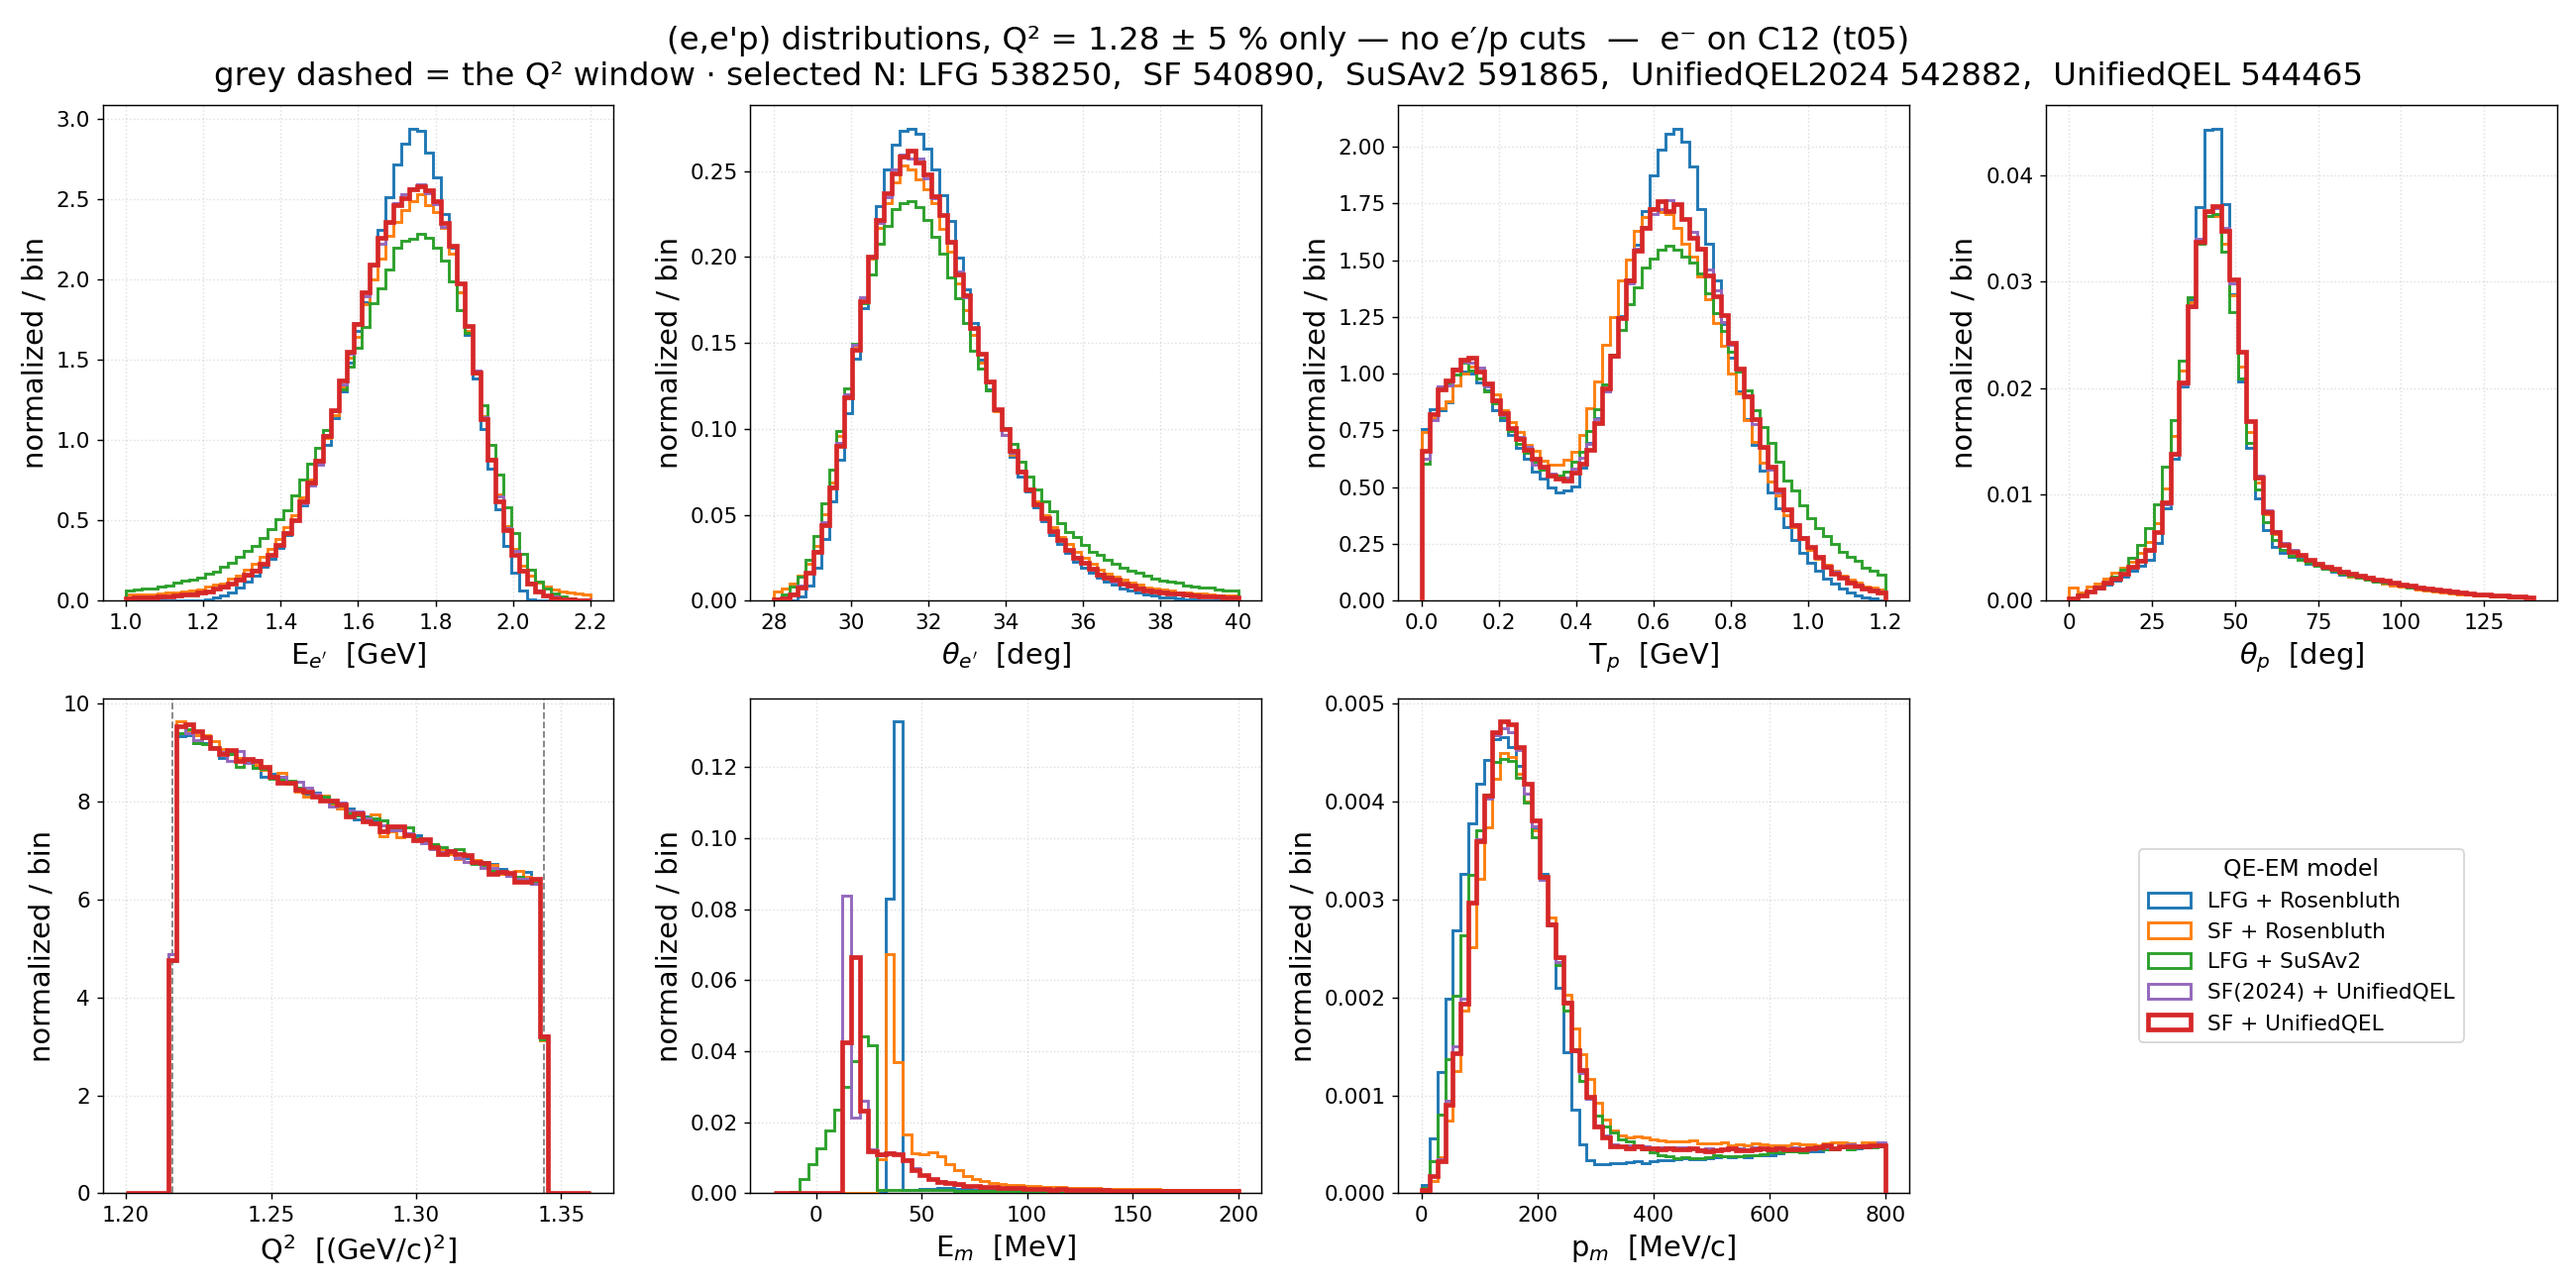
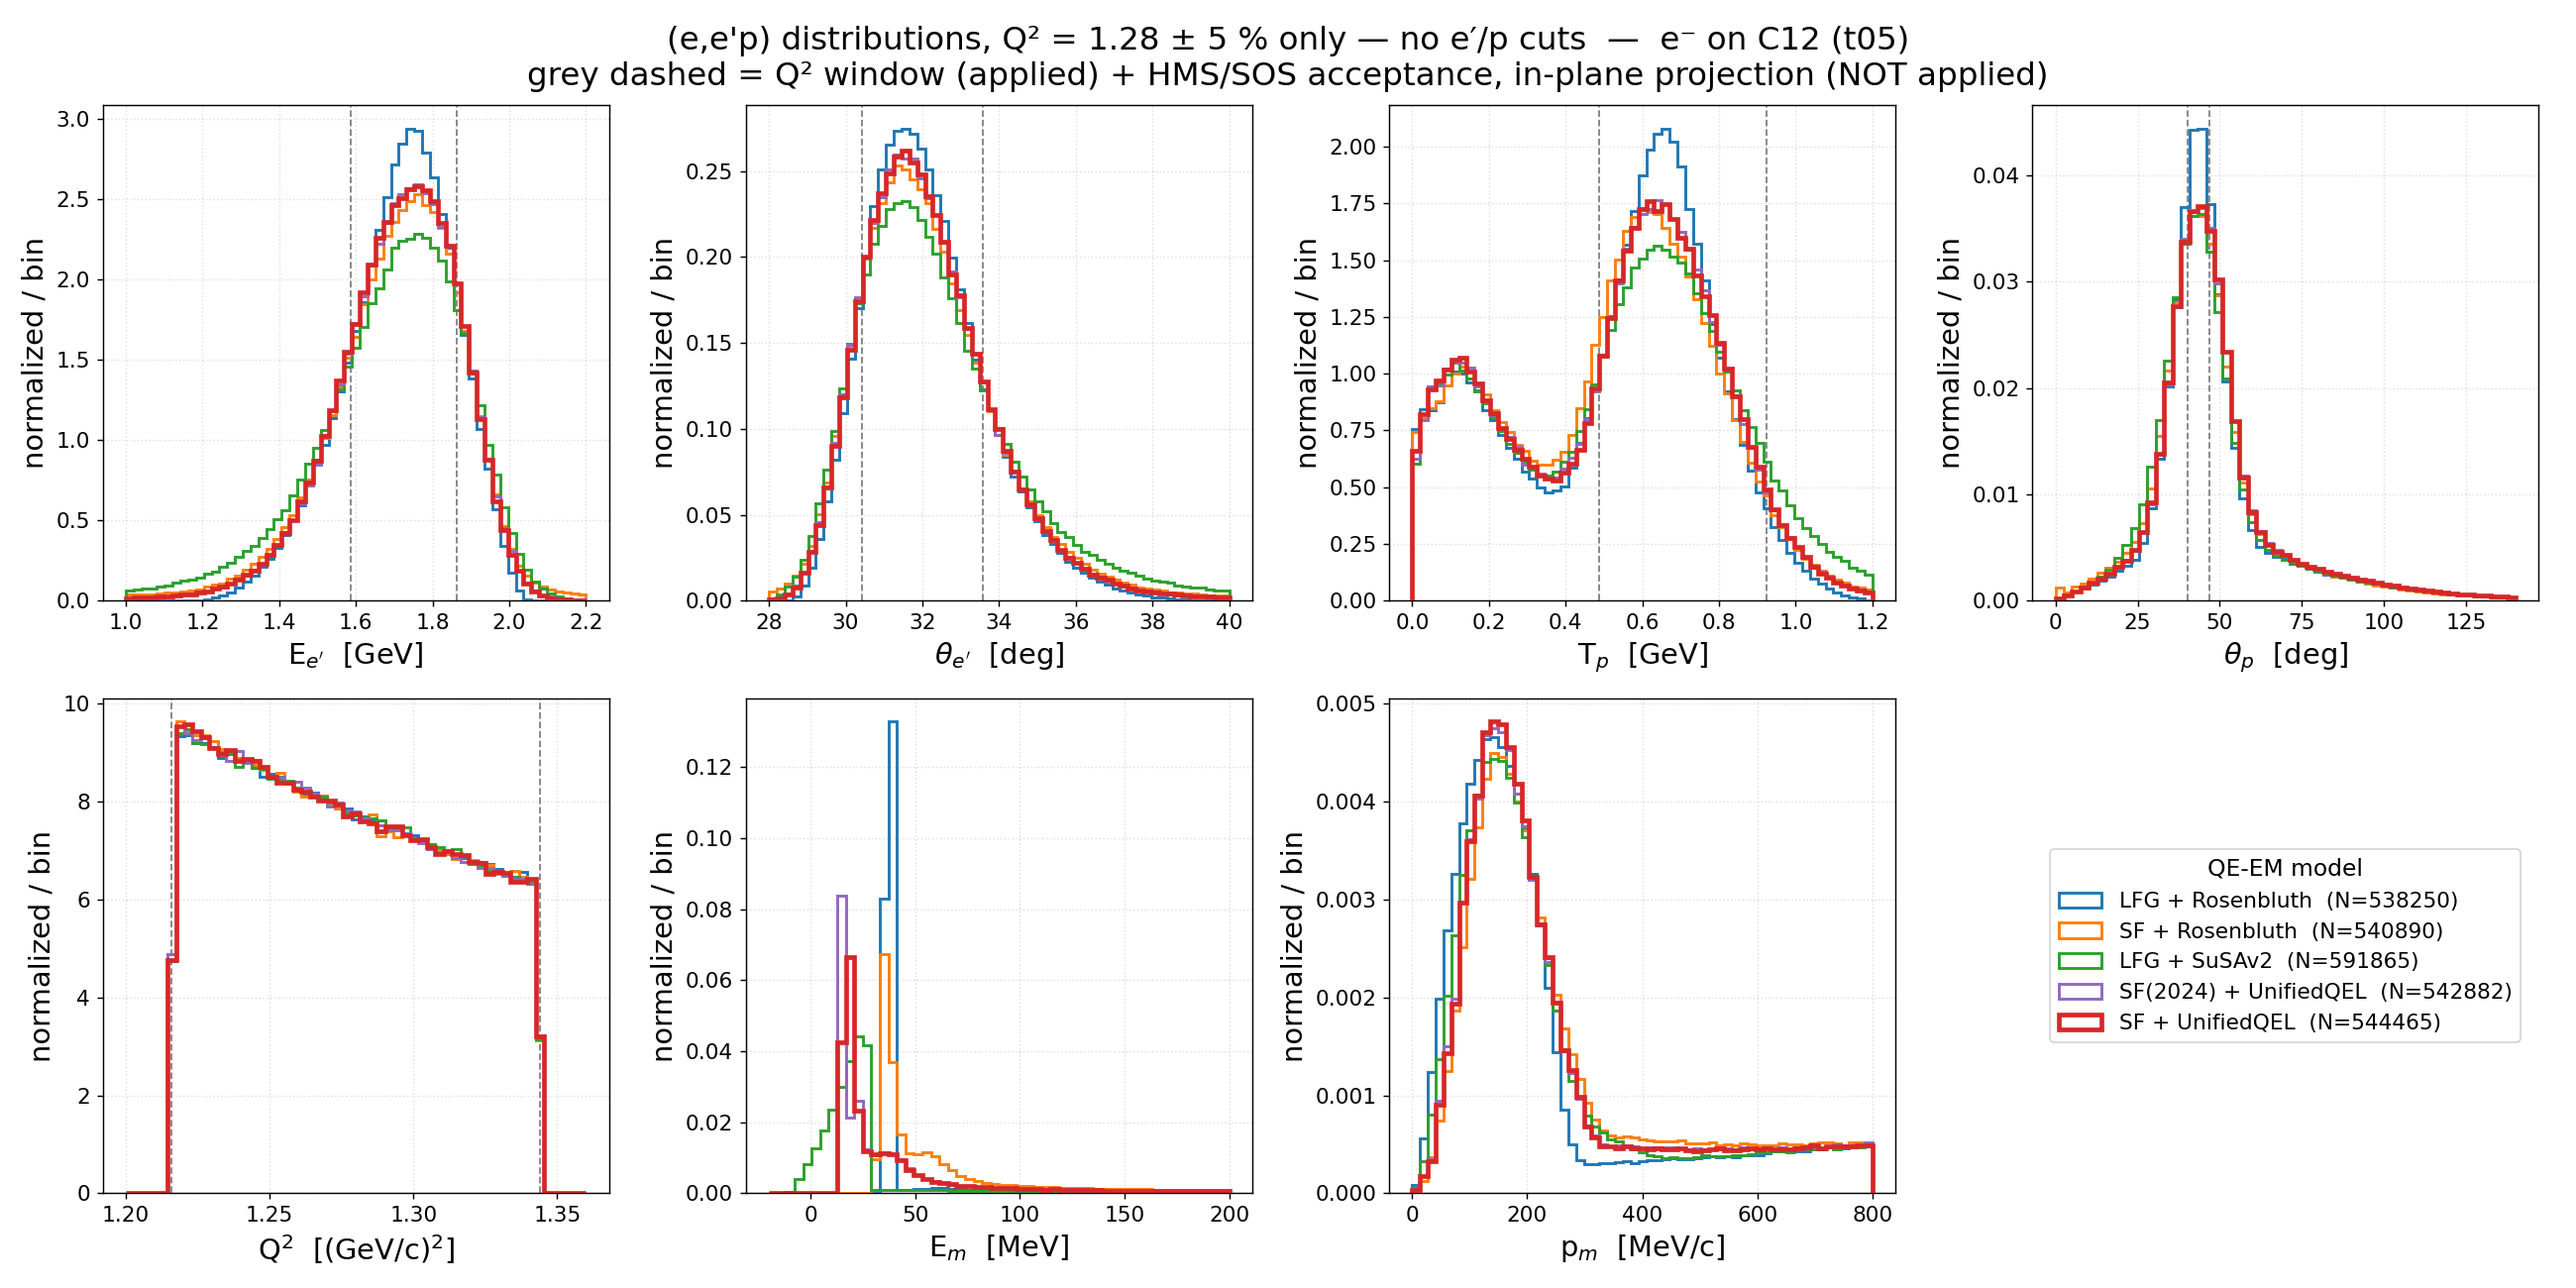
results: mark HMS/SOS acceptance on the Q2-slice figure + S^D extraction plan
dists_q2window: grey dashed acceptance windows (in-plane projections,
derived from acceptance.py constants, NOT applied) on the El, theta_e,
Tp and theta_p panels -- El [1.587,1.863] GeV, theta_e 32.0+-1.58 deg,
Tp [0.487,0.924] GeV, theta_p 43.5+-3.26 deg -- alongside the applied
Q2 window; per-model N moved into the legend so the suptitle fits.

Also adds .claude/plans/genie-experimental-spectral-function.md: the
plan for extracting the experimental (distorted) spectral function
S^D(Em,pm) from GENIE events via Dutta's PWIA estimator (per-event
1/(Ep*pp*sigma_cc1) weights, sigma_tot/N_gen normalization, flat-MC
phase-space H division, FSI-off closure test).

diff --git a/results/prd-analyzer/plot_dists_q2.py b/results/prd-analyzer/plot_dists_q2.py
@@ -18,10 +18,26 @@ import numpy as np
 from plot_style import (apply_style, new_panels, style_axis,
                         FS_LABEL, FS_LEGEND, FS_LEGEND_TITLE, FS_SUPTITLE)
 import samples as S
+import acceptance as acc
+from selection import M_P
 
 Q2_CENTER, Q2_FRAC = 1.28, 0.05
 Q2_LO, Q2_HI = Q2_CENTER * (1 - Q2_FRAC), Q2_CENTER * (1 + Q2_FRAC)
 OUT = "results/prd-analyzer/dists_q2window.png"
+
+# HMS/SOS acceptance windows (in-plane projections), derived from acceptance.py:
+# El: HMS momentum bite (electron ~ massless, E ~ p); theta: arm angle +- atan(yptar);
+# Tp: SOS momentum bite converted to kinetic energy.
+_p_lo, _p_hi = acc.P0_P * (1 - acc.DELTA_P_HW / 100), acc.P0_P * (1 + acc.DELTA_P_HW / 100)
+ACCEPT = {
+    "El":      (acc.P0_E * (1 - acc.DELTA_E_HW / 100), acc.P0_E * (1 + acc.DELTA_E_HW / 100)),
+    "theta_e": tuple(np.degrees(acc.TH0_E) + s * np.degrees(np.arctan(acc.YPTAR_E_HW))
+                     for s in (-1, +1)),
+    "Tp":      tuple(np.hypot(p, M_P) - M_P for p in (_p_lo, _p_hi)),
+    "theta_p": tuple(np.degrees(acc.TH0_P) + s * np.degrees(np.arctan(acc.YPTAR_P_HW))
+                     for s in (-1, +1)),
+    "Q2":      (Q2_LO, Q2_HI),          # the only cut actually applied here
+}
 
 # panel -> (cache key, axis label, (lo, hi), nbins)  — ranges cover ~p1-p99
 PANELS = [
@@ -44,9 +60,10 @@ for ax, (key, lab, rng, nb) in zip(axes, PANELS):
         x = cache[m][key]
         x = x[np.isfinite(x)]
         ax.hist(x, bins=bins, histtype="step", linewidth=S.lw(m), color=S.color(m),
-                density=True, label=S.label(m), zorder=S.zorder(m))
-    if key == "Q2":                                  # the only applied cut
-        for v in (Q2_LO, Q2_HI):
+                density=True, label=f"{S.label(m)}  (N={len(cache[m]['Q2'])})",
+                zorder=S.zorder(m))
+    if key in ACCEPT:            # Q2 = the applied cut; others = HMS/SOS acceptance (NOT applied)
+        for v in ACCEPT[key]:
             ax.axvline(v, color="0.5", ls="--", lw=1.0)
     style_axis(ax, title=None, xlabel=lab, logx=False, logy=False, ymin=None)
     ax.set_ylabel("normalized / bin", fontsize=FS_LABEL)
@@ -57,8 +74,8 @@ axes[7].legend(handles, labels, title="QE-EM model", loc="center",
                fontsize=FS_LEGEND, title_fontsize=FS_LEGEND_TITLE)
 ns = {m: len(cache[m]["Q2"]) for m in S.MODELS}
 fig.suptitle("(e,e'p) distributions, Q² = 1.28 ± 5 % only — no e′/p cuts  —  e⁻ on C12 (t05)\n"
-             "grey dashed = the Q² window · selected N: "
-             + ",  ".join(f"{m} {ns[m]}" for m in S.MODELS),
+             "grey dashed = Q² window (applied) + HMS/SOS acceptance, "
+             "in-plane projection (NOT applied)",
              fontsize=FS_SUPTITLE)
 fig.tight_layout()
 fig.savefig(OUT, dpi=130)

diff --git a/.claude/plans/genie-experimental-spectral-function.md b/.claude/plans/genie-experimental-spectral-function.md
@@ -1,0 +1,116 @@
+# Extract the experimental (distorted) spectral function S^D from GENIE
+
+## Context
+
+The fig9 overlay (`results/prd-analyzer/em_dutta_fig9_q1p28.png`) is a shape comparison:
+each model is area-matched to the data's occupancy-scale integral (6.08 ~ Z) because the
+data's absolute normalization is convention-defined (see
+`papers/nucl-ex_0303011/open_questions.md`) and GENIE's absolute rate was unused.
+
+This plan upgrades that to the real thing: apply Dutta's own PWIA estimator
+(`longpaper2.tex:843-875`) to reconstructed GENIE events and extract
+**S^D_GENIE(Em, pm)** on an absolute per-nucleus scale. Then
+`int d3pm (|pm| < 300)` gives the fig9 observable with no area-matching, and the window
+integral `int S^D dEm d3pm` (Em < 80) is GENIE's transparency analogue, directly
+comparable to the paper's T(C, 1.28) = 0.60(2) x (1/1.11 correlation) ~ 0.54 x Z ~ 3.2.
+
+## The estimator (data -> GENIE dictionary)
+
+Dutta: `S^D = 1/(L*H) * sum_counts 1/(sigma_cc1 * K) * C^rad`, per (Em, pm) bin.
+
+| experiment | GENIE analogue |
+|---|---|
+| counts in (Em, pm) bin | reconstructed events: Em = omega - Tp - Trec, pm = \|q - pp\| (post-FSI leading proton -- S^D is *defined* FSI-distorted) |
+| luminosity L | sigma_tot / N_generated (monoenergetic fixed target: absolute bin yield = sigma_tot * n/N) |
+| C^rad (radiative unfolding) | = 1 (GENIE has no radiation; matches the deradiated data) |
+| sigma_cc1 * K per count | per-event 1/(E_p * p_p * sigma_cc1), sigma_cc1 at the event's reco kinematics, off-shell flag 0 (Ebar = sqrt(pm^2 + m^2)) |
+| H(Em, pm) phase space | flat companion MC over the same generation region + cuts |
+
+Key identity (from `simc_gfortran/physics_proton.f:51-62`): K = E_p * p_p is exactly the
+Jacobian dE_p dOmega_p -> d3pm, so d6sigma = sigma_cc1 * S(Em,pm) * dE_e' dOmega_e d3pm.
+Weighting events by 1/(K*sigma_cc1) and dividing by H (same measure) gives the bin-averaged
+S^D directly:
+
+```
+S^D(bin) = [sigma_tot / N_gen] * sum_{i in bin} 1/(E_p,i * p_p,i * sigma_cc1,i) / H(bin)
+```
+
+Use the SAME sigma_cc1 for all five models regardless of what generated them -- the
+sigma-model mismatch is part of what the estimator measures, identically on the data side
+(the paper's ~5 % model dependence).
+
+## Steps
+
+1. **sigma_cc1 module** -- `results/prd-analyzer/deforest.py`: numpy port of `sigMott`,
+   `fofa_best_fit` (Bosted PRC 51, 409) and `deForest` (flag 0) from
+   `simc_gfortran/physics_proton.f` @ `60c2047`. Units: microbarn * MeV^2 / sr^2.
+   Per-event inputs: Ein, E_e', theta_e, Q^2, omega, q, p_p vector (theta_pq, phi), Em, pm.
+   *Validation*: also port `sigep`; at pm -> 0, Em -> 0 the deForest on-shell limit must
+   reproduce the elastic sigep at the same kinematics; check flag 0 vs -1 agree at pm = 0.
+
+2. **Streaming builder** -- `build_cache_sd.py`: same skeleton as `build_cache_q2.py` /
+   `build_cache_acceptance.py`, but additionally cache per-event `E_p`, `p_p`, `theta_pq`
+   (or the computed `w_cc1` weight directly -- decide when writing; caching the raw scalars
+   is more flexible). Two fiducial variants, both cached:
+   (a) Q^2 = 1.28 +- 5 % only (full 4pi arms) -- the clean-H version;
+   (b) the HMS x SOS acceptance boxes (reuse `acceptance.py`).
+   Record `sigma_tot` per model: read the gst `xsec` branch (verify availability + units,
+   1e-38 cm^2; constant for a monoenergetic single-process sample) -- fallback: spline
+   lookup from the tune's gmkspl xml at 2.445 GeV.
+
+3. **Phase space H** -- `phase_space_h.py`: vectorized flat MC. Throw uniform
+   (E_e', cos theta_e, phi_e, E_p, cos theta_p, phi_p) over a bounding region that covers
+   the reconstruction window (Em in [-20, 120], pm in [0, 400] comfortably), apply the
+   Q^2 >= 1.18 mask (and, for variant (b), the arm boxes incl. the e'-plane rotation
+   convention from `acceptance.py`), reconstruct the same (Em, pm) from the thrown
+   kinematics, and set H(bin) = V6 * n_flat(bin)/N_flat with V6 the product of the thrown
+   ranges. N_flat ~ 1e8 (numpy, minutes). Mask bins with n_flat below a threshold (~50)
+   -- acceptance-edge bins where H -> 0 blow up, as in the experiment.
+
+4. **Extraction + figures** -- `plot_sd_extraction.py`:
+   - 2D S^D(Em, pm) map per model (sanity: the P(k,E) ridge for the SF models);
+   - `y(Em) = sum_l S^D(k,l) * Vol3pm(l)` over pm < 300 (Vol3pm = 4pi int pm^2 dpm per
+     bin; full-sphere coverage holds for variant (a), for (b) it leans on the isotropy of
+     S in the pm direction -- state it);
+   - ABSOLUTE overlay on fig9 + a ratio panel;
+   - report per-model `int S^D dEm d3pm` (Em < 80, pm < 300) vs 0.54 x Z ~ 3.2 (the
+     paper's absorbed scale) and vs the data file's 6.08 (occupancy convention).
+
+5. **Closure test** (validates the whole chain): a small LOCAL FSI-off run with
+   `run_gevgen` (tune `GEM26_22b_05_000` with FSI disabled -- mechanism via the genie-tune
+   overlay or the generator-list/hA knob, to be checked; ~500k events, local background
+   job). With FSI off, the estimator must return the input SF: f(E) of `pke12_tot`
+   (17.5 MeV peak) up to the calculable sigma_gen/sigma_cc1 reweight, and the integral
+   -> Z within a few %. Bonus closure on SF+Rosenbluth: the reweight ratio
+   sigma_Rosenbluth/sigma_cc1 is directly computable per event.
+
+6. **Docs**: README section 7 (method, dictionary table, integrals table, caveats);
+   cross-link `report/simc-eep-normalization.md` (the H/genvol machinery is the SIMC
+   analogue) and the open_questions entries (this extraction is the GENIE side of the
+   normalization question).
+
+## Open decisions
+
+- Binning: Em 5 MeV (match the data grid) x pm 25 MeV/c over 0-400 as the default.
+- H statistics/error propagation: include the MC stat of H(bin) in the S^D error bars.
+- sigma_tot source: gst `xsec` branch vs spline lookup (verify the branch first).
+- FSI-off mechanism for the closure run (genie-tune overlay vs switching the FSI model in
+  the tune family) -- needs a quick check before step 5.
+- Whether variant (b) needs the collimator octagon or the rectangle suffices (start with
+  the rectangle, consistent with the existing acceptance analysis).
+
+## Cost
+
+- Streaming: same scale as the existing builders (MAX_FILES = 4-20, 2-10M events/model,
+  ~1-5 GB transferred each) -- the new columns are computed inline, no extra passes.
+- Flat MC for H: pure numpy, minutes, local.
+- Closure run: one local gevgen ~500k events (100k ~ 25-30 min -> ~2.5 h, background).
+
+## Verification checklist
+
+- [ ] `deforest.py`: pm -> 0 limit reproduces `sigep`; units microbarn MeV^2/sr^2.
+- [ ] H(bin) stable against N_flat doubling (MC-converged).
+- [ ] FSI-off closure: recovers `pke12_tot` f(E) peak position/width; integral ~ Z.
+- [ ] FSI-on integrals: reported with statistical errors; compared to 0.54 x Z and to
+      the data's 6.08 with the normalization caveat spelled out.
+- [ ] Fig9 absolute overlay + ratio panel rendered in house style.

diff --git a/results/prd-analyzer/README.md b/results/prd-analyzer/README.md
@@ -274,6 +274,9 @@ The no-cut counterpart of the cut-stage figures: **all electron and proton cuts 
 clip). 4 files/model streamed (2M events), ~27–30 % selected (N = 538k–592k), cached in
 `cache/q2window/`. All seven variables (El, θ_e′, T_p, θ_p, Q², E_m, p_m), area-normalized;
 proton panels implicitly drop the ~21 % of events with no final-state proton (neutron knockout).
+Grey dashed lines mark the applied Q² window and, on the El/θ_e′/T_p/θ_p panels, the HMS/SOS
+acceptance windows (in-plane projections, derived from `acceptance.py` — **not** applied here):
+El ∈ [1.587, 1.863] GeV, θ_e′ = 32.0 ± 1.58°, T_p ∈ [0.487, 0.924] GeV, θ_p = 43.5 ± 3.26°.
 
 **Read**: with the spectrometer bite removed, `El`/`θ_e′` are the smooth QE peak (1.75 GeV,
 ~31.5°) — the Q² window alone constrains them only weakly. `T_p` is double-peaked: the QE bump
